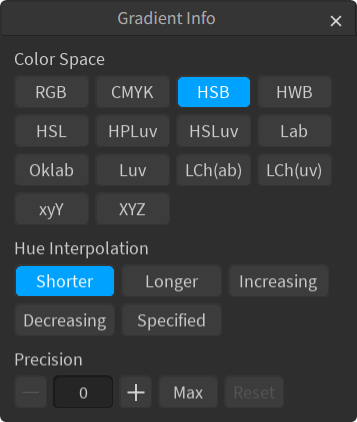
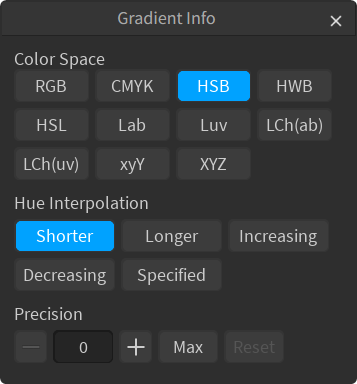
Remove extra gradient color spaces

diff --git a/docs/user-guide/gradient-editor.md b/docs/user-guide/gradient-editor.md
@@ -27,8 +27,6 @@ You can open the gradient palette using the ![gradient palette](../images/gradie
 
 ## Gradient Info
 
-(TODO: this image is a placeholder)
-
 ![The gradient information window (dark theme)](../images/gradient-info-dark.png#only-dark){ width="220" }
 ![The gradient information window (light theme)](../images/gradient-info-light.png#only-light){ width="220" }
 
